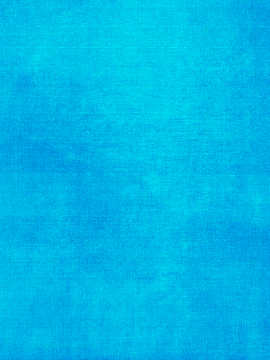
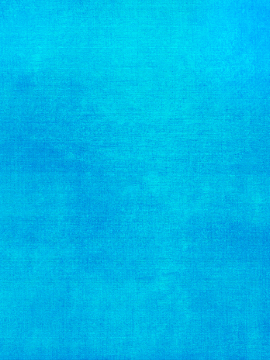
:alembic: Experimenting new things
Testing new color in some places

Changed region(s): [[0.8296, 0.0, 1.0, 0.1528]]

diff --git a/src/templates/SingleToy.js b/src/templates/SingleToy.js
@@ -5,6 +5,7 @@ import { ChevronLeft } from 'react-feather'
 
 import Content from '../components/Content'
 import Layout from '../components/Layout'
+import PageHeader from '../components/PageHeader'
 
 export const SingleToyTemplate = ({
   title,
@@ -15,15 +16,13 @@ export const SingleToyTemplate = ({
   categories = []
 }) => (
   <main>
+    <PageHeader title={title} />
     <article
       className="SingleToy section light"
       itemScope
       itemType="http://schema.org/BlogPosting"
     >
       <div className="container skinny">
-        <Link className="SingleToy--BackButton" to="/toy/">
-          <ChevronLeft /> BACK
-        </Link>
         <div className="SingleToy--Content relative">
           <div className="SingleToy--Meta">
             {date && (
@@ -39,10 +38,7 @@ export const SingleToyTemplate = ({
               <Fragment>
                 <span>|</span>
                 {categories.map((cat, index) => (
-                  <span
-                    key={cat.category}
-                    className="SingleToy--Meta--Category"
-                  >
+                  <span key={cat.category} className="SingleToy--Meta--Category">
                     {cat.category}
                     {/* Add a comma on all but last category */}
                     {index !== categories.length - 1 ? ',' : ''}
@@ -53,9 +49,7 @@ export const SingleToyTemplate = ({
           </div>
 
           {title && (
-            <h1 className="SingleToy--Title" itemProp="title">
-              {title}
-            </h1>
+            <h1 className="SingleToy--Title" itemProp="title">{title}</h1>
           )}
 
           <div className="SingleToy--InnerContent">
@@ -64,23 +58,20 @@ export const SingleToyTemplate = ({
 
           <div className="SingleToy--Pagination">
             {prevPostURL && (
-              <Link
-                className="SingleToy--Pagination--Link prev"
-                to={prevPostURL}
-              >
-                Previous Post
+              <Link className="SingleToy--Pagination--Link prev" to={prevPostURL}>
+                Brinquedo Anterior
               </Link>
             )}
             {nextPostURL && (
-              <Link
-                className="SingleToy--Pagination--Link next"
-                to={nextPostURL}
-              >
-                Next Post
+              <Link className="SingleToy--Pagination--Link next" to={nextPostURL}>
+                Próximo Brinquedo
               </Link>
             )}
           </div>
         </div>
+        <Link className="SingleToy--BackButton" to="/toy/">
+          <ChevronLeft /> TODOS OS BRINQUEDOS
+        </Link>
       </div>
     </article>
   </main>

diff --git a/src/components/_SingleToy.scss b/src/components/_SingleToy.scss
@@ -1,0 +1,78 @@
+.SingleToy {
+  background: $primary;
+}
+
+.SingleToy--BackButton {
+  color: white;
+  position: relative;
+  display: flex;
+  align-items: center;
+  font-weight: 600;
+  text-decoration: none;
+  letter-spacing: 0.1em;
+}
+
+.SingleToy--BackButton svg {
+  transition: transform 0.2s ease-out;
+  transform: translateX(0);
+  height: 1.2em;
+}
+
+.SingleToy--BackButton:hover svg,
+.SingleToy--BackButton:focus svg {
+  transform: translateX(-0.25em);
+}
+
+.SingleToy--Content {
+  background: white;
+  padding: 8rem 8rem 4rem 8rem;
+}
+
+@media screen and (max-width: 750px) {
+  .SingleToy--Content {
+    padding: 4rem 2rem;
+  }
+}
+
+.SingleToy--Meta {
+  font-size: 1rem;
+  margin: 0 0 2rem 0;
+  text-align: center;
+}
+
+.SingleToy--Meta > * + * {
+  margin-left: 0.75em;
+}
+
+.SingleToy--Title {
+  text-align: center;
+  line-height: 1.2;
+}
+
+.SingleToy--InnerContent {
+  padding: 0 8rem;
+}
+
+@media screen and (max-width: 750px) {
+  .SingleToy--InnerContent {
+    padding: 0;
+  }
+}
+
+.SingleToy--Pagination {
+  margin: 4rem 0 0 0;
+  display: flex;
+  align-items: center;
+  justify-content: space-between;
+}
+
+.SingleToy--Pagination--Link {
+  text-transform: uppercase;
+  font-size: 1.2rem;
+  font-weight: 600;
+  text-decoration: none;
+}
+
+.SingleToy--Pagination--Link.next {
+  margin-left: auto;
+}

diff --git a/src/components/_PageHeader.scss b/src/components/_PageHeader.scss
@@ -10,12 +10,11 @@
   color: white;
   @include font-size(2.6rem);
   font-weight: 500;
-  letter-spacing: 0.5rem;
+  letter-spacing: 0.26rem;
 }
 
 @media screen and (max-width: 413.98px) {
   .PageHeader--Title {
     @include font-size(2.5rem);
-    letter-spacing: 0.4rem;
   }
 }

diff --git a/src/components/mainStyles.scss b/src/components/mainStyles.scss
@@ -22,6 +22,7 @@
 @import './Popup';
 @import './InstagramFeed';
 @import './About';
+@import './SingleToy';
 @import './Footer';
 
 ::-webkit-scrollbar {

diff --git a/content/toys/post-01.md b/content/toys/post-01.md
@@ -2,16 +2,18 @@
 template: SingleToy
 title: Castelinho
 status: Featured / Published
-date: '2018-05-25'
+date: '2020-02-27'
 featuredImage: https://brincadeira.co/products/list_castelinho.png
 price: R$200,00
-excerpt: Xoxota
+excerpt: Only test
 categories:
   - category: Infláveis
 meta:
   description: Teste de Meta descrição
   title: Castelinho
 ---
+
+![Test Image](https://brincadeira.co/products/list_castelinho.png)
 
 Este é um texto de espaço reservado que nossos web designers colocam aqui para garantir que as palavras apareçam corretamente em seu site. Este texto será substituído assim que o site for concluído. No momento, você está lendo um texto escrito em inglês e não em outro idioma.
 

diff --git a/content/toys/post-02.md b/content/toys/post-02.md
@@ -20,7 +20,7 @@ meta:
 
 Os parágrafos são separados por uma linha em branco.
 
-![Test Image](https://brincadeira.co/)
+![Test Image](https://brincadeira.co/products/list_corrida.png)
 
 <iframe width="560" height="315" src="https://www.youtube.com/embed/0gIZ0BVmkNg" frameborder="0" allow="accelerometer; autoplay; encrypted-media; gyroscope; picture-in-picture" allowfullscreen></iframe>
 

diff --git a/content/toys/post-20.md b/content/toys/post-20.md
@@ -20,7 +20,7 @@ meta:
 
 Os parágrafos são separados por uma linha em branco.
 
-![Test Image](https://brincadeira.co/)
+![Test Image](https://brincadeira.co/products/list_corrida.png)
 
 <iframe width="560" height="315" src="https://www.youtube.com/embed/0gIZ0BVmkNg" frameborder="0" allow="accelerometer; autoplay; encrypted-media; gyroscope; picture-in-picture" allowfullscreen></iframe>
 

diff --git a/content/toys/post-22.md b/content/toys/post-22.md
@@ -20,7 +20,7 @@ meta:
 
 Os parágrafos são separados por uma linha em branco.
 
-![Test Image](https://brincadeira.co/)
+![Test Image](https://brincadeira.co/products/list_corrida.png)
 
 <iframe width="560" height="315" src="https://www.youtube.com/embed/0gIZ0BVmkNg" frameborder="0" allow="accelerometer; autoplay; encrypted-media; gyroscope; picture-in-picture" allowfullscreen></iframe>
 
